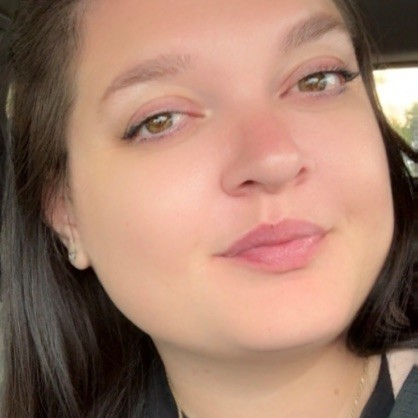
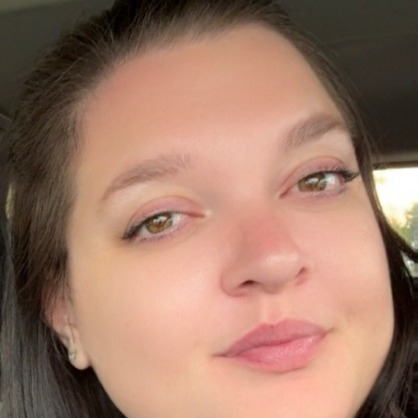
Raise Amanda Carranza’s portrait so her eyes sit inside the directory circle.

diff --git a/articles/welcome-aboard-amanda.html b/articles/welcome-aboard-amanda.html
@@ -144,7 +144,7 @@
       <p class="article-meta">Published October 8, 2026 · <a href="/agents/">Travel agents</a></p>
 
       <div class="agent-feature-hero">
-        <div class="agent-feature-photo"><img src="/assets/agent-photos/amanda-carranza-avatar.jpg" alt="Amanda Carranza"></div>
+        <div class="agent-feature-photo"><img src="/assets/agent-photos/amanda-carranza-avatar.jpg?v=2" alt="Amanda Carranza"></div>
         <div>
           <h2>Amanda Carranza</h2>
           <p class="meta">Travel B and V · Green Valley, AZ</p>

diff --git a/assets/agents-data.js b/assets/agents-data.js
@@ -98,7 +98,7 @@ window.CC_profilePath = function (agent) {
 
 /** Pre-cropped headshots for directory circles (full-body uploads stay in blob storage). */
 window.CC_AGENT_PHOTO_OVERRIDES = {
-  "amanda-carranza": "/assets/agent-photos/amanda-carranza-avatar.jpg?v=1",
+  "amanda-carranza": "/assets/agent-photos/amanda-carranza-avatar.jpg?v=2",
   "emily-schultz": "/assets/agent-photos/emily-schultz.jpg?v=7",
   "martina-yost": "/assets/agent-photos/martina-yost.jpg?v=6",
   "kim-fanning": "/assets/agent-photos/kim-fanning.jpg?v=5",

diff --git a/assets/articles-data.js b/assets/articles-data.js
@@ -16,7 +16,7 @@
         "Meet Amanda Carranza of Travel B and V — fee-free Disney cruise planning for families, first-timers, large groups, Alaska, and Europe.",
       date: "2026-10-08",
       url: "/articles/welcome-aboard-amanda.html",
-      image: "/assets/agent-photos/amanda-carranza-card.jpg",
+      image: "/assets/agent-photos/amanda-carranza-card.jpg?v=2",
       imageAlt: "Amanda Carranza",
     },
     {

diff --git a/index.html b/index.html
@@ -789,7 +789,7 @@
     }
   })();
 </script>
-<script src="/assets/articles-data.js?v=20261008"></script>
+<script src="/assets/articles-data.js?v=20261008b"></script>
 <script>
   (function(){
     var slides = (window.CC_featuredCarousel && window.CC_featuredCarousel()) || [];

diff --git a/articles/index.html b/articles/index.html
@@ -123,7 +123,7 @@
   </section>
 </main>
 
-<script src="/assets/articles-data.js?v=20261008"></script>
+<script src="/assets/articles-data.js?v=20261008b"></script>
 <script>
 (function(){
   var btn=document.querySelector('.nav-toggle');

diff --git a/agents/index.html b/agents/index.html
@@ -145,7 +145,7 @@
   </section>
 </main>
 
-<script src="/assets/agents-data.js?v=20261008"></script>
+<script src="/assets/agents-data.js?v=20261008b"></script>
 <script src="/assets/community.js"></script>
 <script>
   (function(){

diff --git a/agents/request.html b/agents/request.html
@@ -205,7 +205,7 @@
   </form>
 </div>
 
-<script src="/assets/agents-data.js?v=20261008"></script>
+<script src="/assets/agents-data.js?v=20261008b"></script>
 <script src="/assets/community.js"></script>
 <script>
   (function(){

diff --git a/agents/profile.html b/agents/profile.html
@@ -130,7 +130,7 @@
   </div>
 </div>
 
-<script src="/assets/agents-data.js?v=20261008"></script>
+<script src="/assets/agents-data.js?v=20261008b"></script>
 <script src="/assets/community.js"></script>
 <script>
 (function () {
